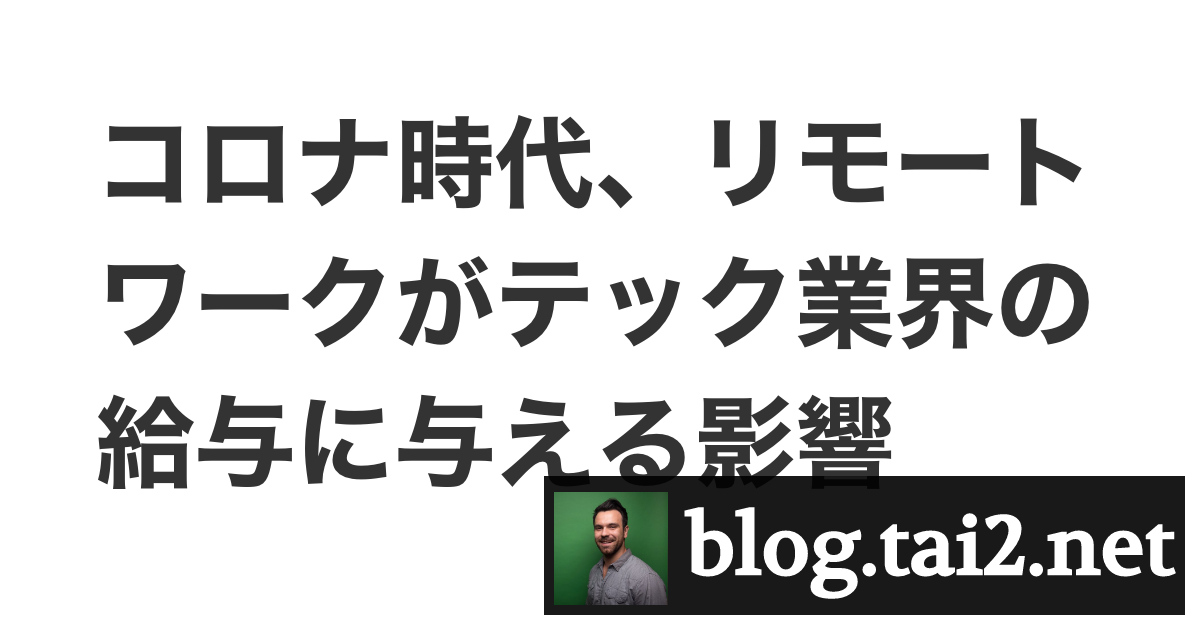
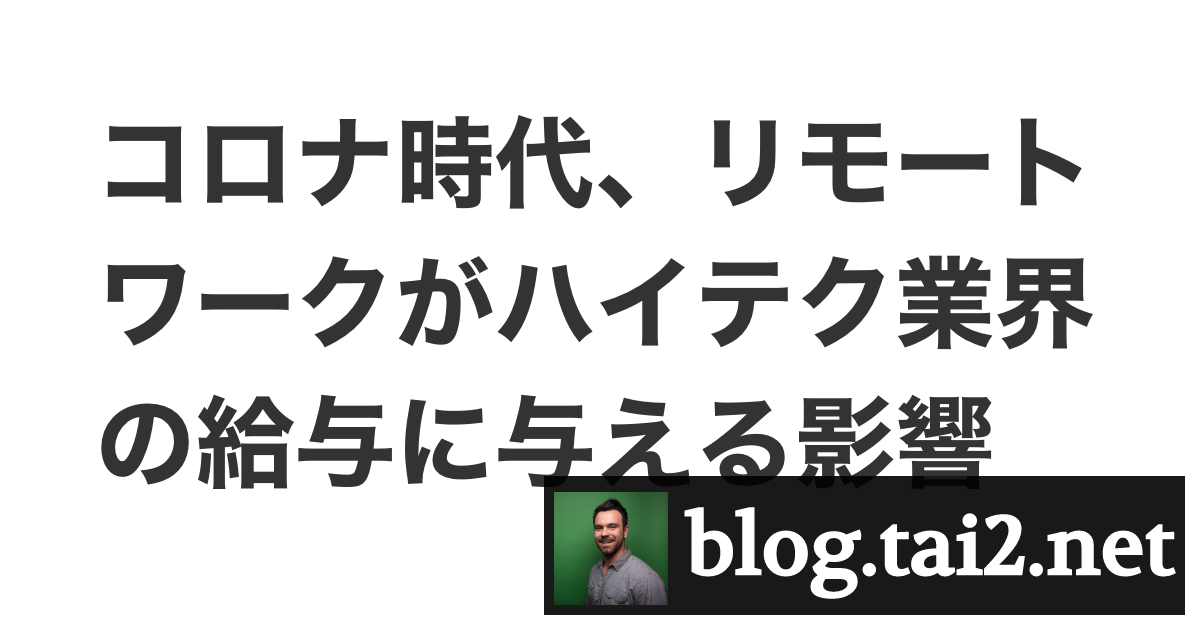
タイトル修正

Changed region(s): [[0.0617, 0.6333, 0.8325, 0.7841], [0.4008, 0.3921, 0.925, 0.573]]

diff --git a/content/Misc/remote-work-covid19-ja.rst b/content/Misc/remote-work-covid19-ja.rst
@@ -1,5 +1,5 @@
-コロナ時代、リモートワークがテック業界の給与に与える影響
-==========================================================
+コロナ時代、リモートワークがハイテク業界の給与に与える影響
+===========================================================
 
 :date: 2020-10-9
 :slug: remote-work-covid19-ja
